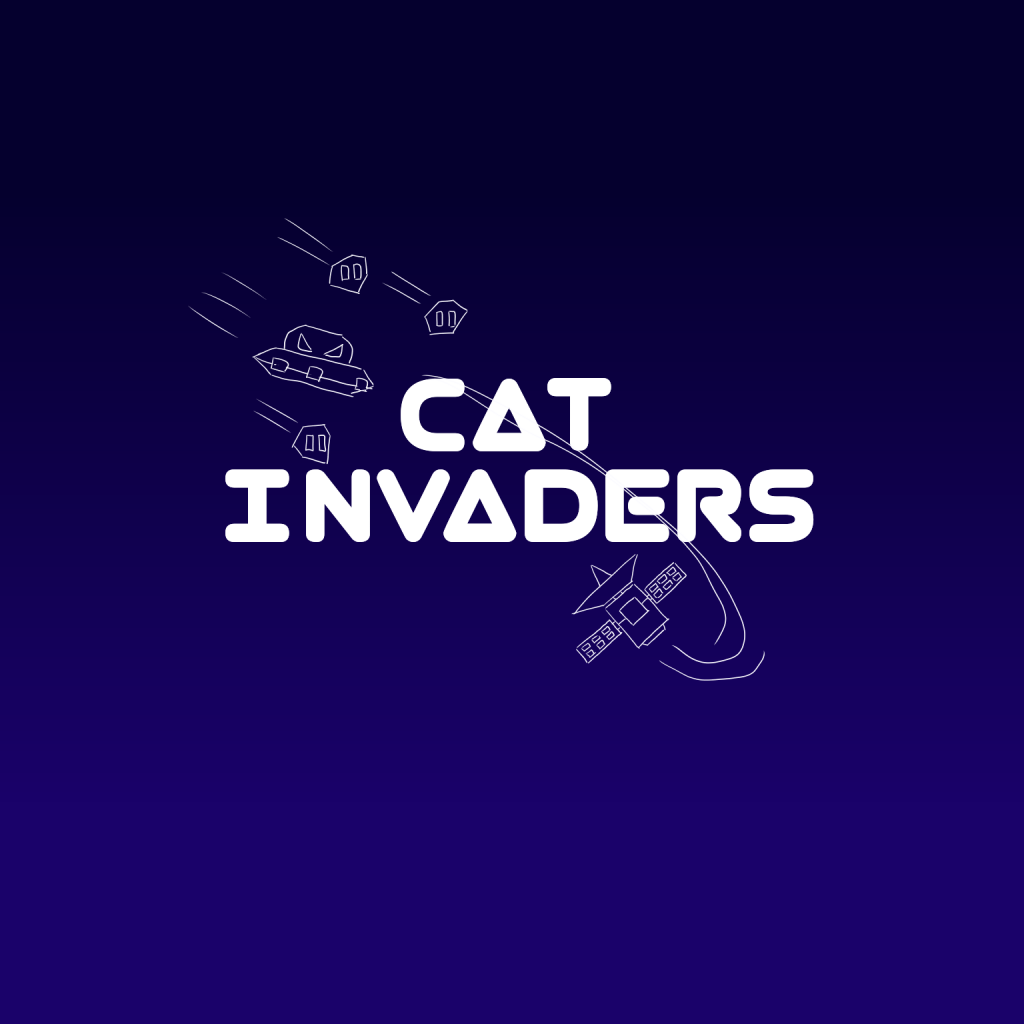
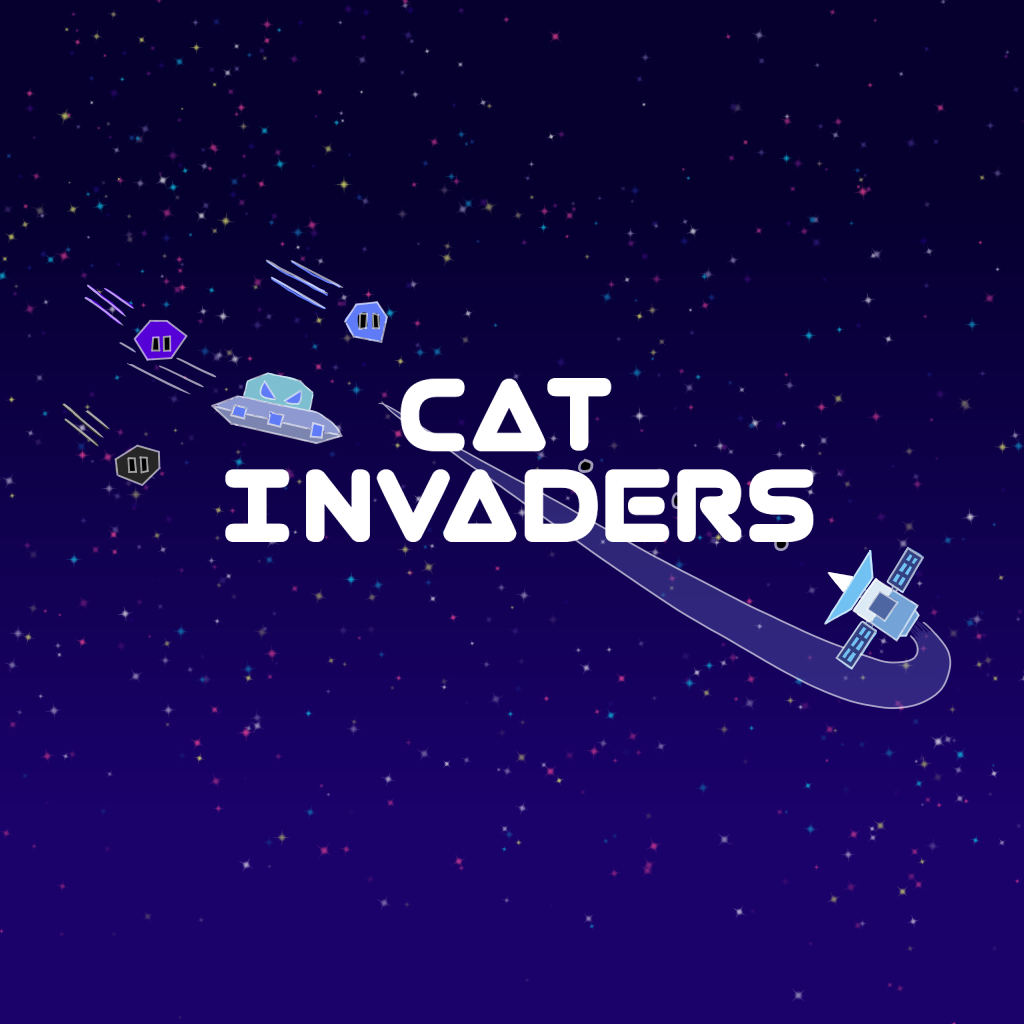
backgrounds, centered some stuff, fixed a bug where you couldn't pass level 1 after gameover

diff --git a/cat-invaders.js b/cat-invaders.js
@@ -399,7 +399,7 @@ class Base_Scene extends Scene {
             gameOver: new Material(new defs.Textured_Phong, {
                 color: hex_color("#000000"),
                 ambient: 1.0,
-                texture: new Texture("assets/popcat.jpg")
+                texture: new Texture("assets/endingScreen.png")
             }),
 
         };
@@ -814,6 +814,7 @@ export class CatInvaders extends Base_Scene {
         this.enemy_speed = 60;
         this.wave_num = 1;
         this.enemies_killed = 0;
+        this.threshold = 7;
 
         // TODO for testing purposes
         this.spawn = false;
@@ -980,7 +981,7 @@ export class CatInvaders extends Base_Scene {
             }
             else if (this.transition)
             {
-                let center = Mat4.identity().times(Mat4.translation(-6, (this.top_of_screen-this.bottom_of_screen) / 2, 3)).times(Mat4.scale(0.5, 0.5, 0.5));
+                let center = Mat4.identity().times(Mat4.translation(-5, (this.top_of_screen-this.bottom_of_screen) / 2, 3)).times(Mat4.scale(0.5, 0.5, 0.5));
                 let start_string = "Next Level: " + this.level;
                 this.shapes.text.set_string(start_string, context.context);
                 this.shapes.text.draw(context, program_state, center, this.text_image);
@@ -993,14 +994,14 @@ export class CatInvaders extends Base_Scene {
             }
             else if (this.gameover)
             {
-                let center = Mat4.identity().times(Mat4.translation(-10, this.top_of_screen-6, 3)).times(Mat4.scale(0.5, 0.5, 0.5));
-                let gameover_string = "Game Over! Main Menu in a few secs...";
-                this.shapes.text.set_string(gameover_string, context.context);
-                this.shapes.text.draw(context, program_state, center, this.text_image);
+                // let center = Mat4.identity().times(Mat4.translation(-10, this.top_of_screen-6, 3)).times(Mat4.scale(0.5, 0.5, 0.5));
+                // let gameover_string = "Game Over! Main Menu in a few secs...";
+                // this.shapes.text.set_string(gameover_string, context.context);
+                // this.shapes.text.draw(context, program_state, center, this.text_image);
 
                 // game over screen
                 this.shapes.plane.draw(context, program_state,                                              // Cat
-                    model_transform.times(Mat4.translation(0,8,0)).times(Mat4.scale(23,23,0)),
+                    model_transform.times(Mat4.translation(0,10,0)).times(Mat4.scale(23,23,0)),
                     this.materials.gameOver);
 
                 // add score to list of scores (once)
@@ -1012,7 +1013,8 @@ export class CatInvaders extends Base_Scene {
                 }
 
                 // display top 10
-                center = center.times(Mat4.translation(0, -4, 0));
+                // let center = center.times(Mat4.translation(0, -4, 0));
+                let center = Mat4.identity().times(Mat4.translation(-10, this.top_of_screen-10, 3)).times(Mat4.scale(0.5, 0.5, 0.5));
                 if (this.top_scores.length > 0) {
                     this.shapes.text.set_string("Top 10 scores: ", context.context);
                     this.shapes.text.draw(context, program_state, center, this.text_image);
